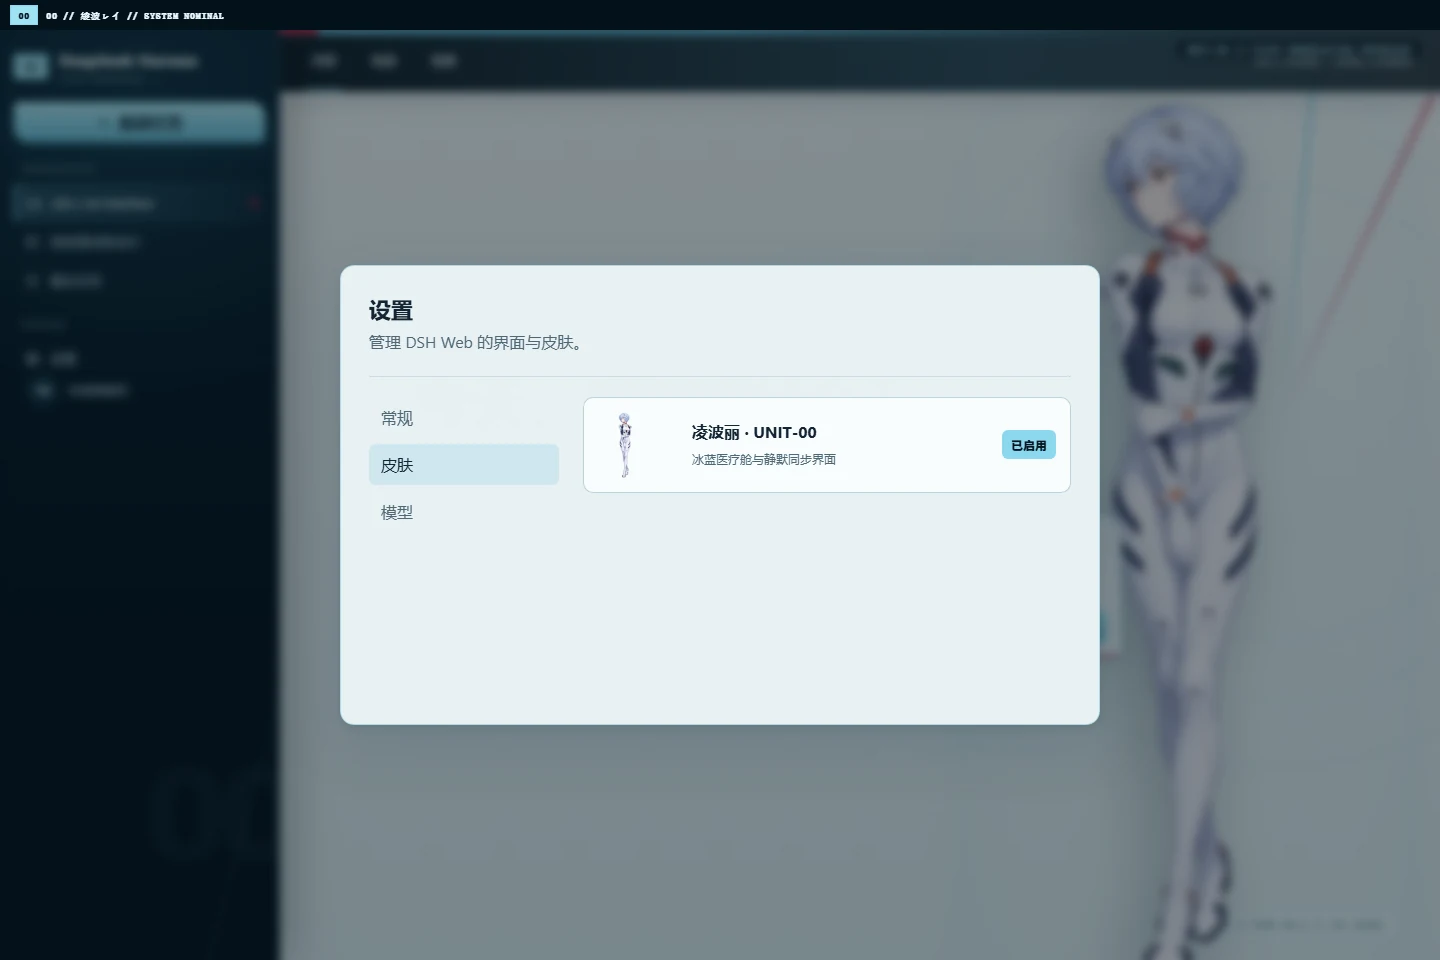
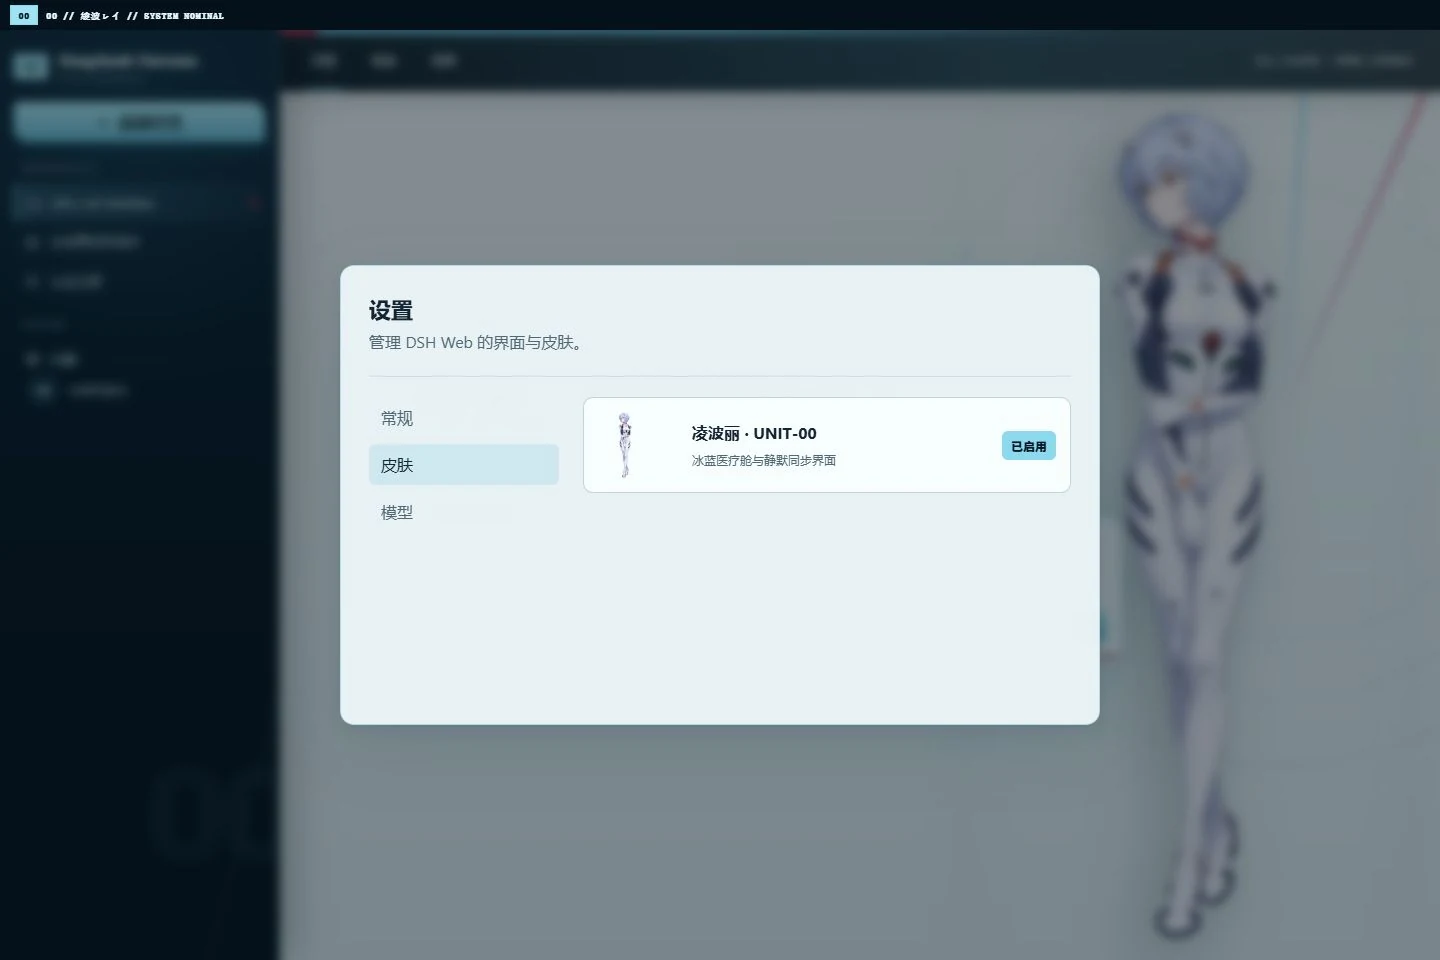
Fix Rei artwork framing

diff --git a/preview/preview.html b/preview/preview.html
@@ -113,7 +113,7 @@
             <div data-composer-card><span class="placeholder">描述一个清晰的任务...</span><div class="toolbar"><div class="tools"><button class="toolButton"><svg viewBox="0 0 24 24" fill="none" stroke="currentColor" stroke-width="2"><path d="M12 5v14M5 12h14"/></svg></button><span class="model">GPT-5.6-LUNA / MAX</span></div><button class="sendButton primary"><svg viewBox="0 0 24 24" fill="none" stroke="currentColor" stroke-width="2"><path d="M12 19V5m-6 6 6-6 6 6"/></svg></button></div></div>
           </div>
         </section>
-        <section class="activeScene" data-phase="active" data-chat-flow>
+        <section class="activeScene" data-phase="active">
           <div class="messageRow userRow"><div class="bubble">帮我检查这个插件的切换和清理逻辑。</div></div>
           <div class="messageRow assistantRow"><div class="assistantContent"><strong>检查完成。</strong><p>激活过程由皮肤管理器统一接管，注册阶段保持惰性。切换回默认皮肤时，主题节点、系统颜色、标题和 favicon 都会恢复。</p><div class="reasoning">正在核对观察器、动画帧与侧栏尺寸监听的回收顺序……</div><div data-terminal>$ node tests/apply.spec.ts<br><span style="color:#8bd8ef">✓ 6 tests passed</span><br>interface lifecycle: clean</div></div></div>
           <div class="activeComposer" data-composer-card><span class="placeholder">继续对话...</span><div class="toolbar"><span class="model">UNIT-00 / ACTIVE</span><button class="sendButton primary" disabled><svg viewBox="0 0 24 24" fill="none" stroke="currentColor" stroke-width="2"><path d="M12 19V5m-6 6 6-6 6 6"/></svg></button></div></div>
@@ -127,7 +127,9 @@
     import { SKIN_ART } from '../shared/art.js'
     const query = new URLSearchParams(location.search)
     if (query.get('theme') === 'dark') document.body.dataset.dsDarkTheme = ''
-    document.body.classList.add(`scene-${query.get('scene') || 'hero'}`)
+    const scene = query.get('scene') || 'hero'
+    document.body.classList.add(`scene-${scene}`)
+    if (scene === 'active') document.querySelector('.activeScene').dataset.chatFlow = ''
     document.querySelector('[data-preview-art]').src = SKIN_ART
     let cleanup
     activateSkin({ effect(factory) { cleanup = factory() } })

diff --git a/lib/client.js b/lib/client.js
@@ -131,10 +131,12 @@ body[data-dsh-rei-interface] [data-skin-chrome='rei-artwork-stage'] {
 
 body[data-dsh-rei-interface] [data-skin-artwork] {
   position: absolute;
-  right: clamp(-42px, 1.8vw, 38px);
-  bottom: -2.5vh;
+  right: clamp(18px, 2vw, 36px);
+  bottom: clamp(12px, 1.6vh, 20px);
   width: auto;
-  height: min(93vh, 1040px);
+  height: min(88vh, 920px);
+  max-width: calc(100vw - var(--rei-sidebar-width) - 24px);
+  object-fit: contain;
   opacity: 0.93;
   filter: drop-shadow(-18px 22px 32px rgba(6, 26, 39, 0.3));
   transform-origin: right bottom;
@@ -541,8 +543,9 @@ body[data-dsh-rei-interface] ::-webkit-scrollbar-thumb {
 
 @media (max-width: 1180px) {
   body[data-dsh-rei-interface] [data-skin-artwork] {
-    right: -135px;
-    height: 84vh;
+    right: clamp(12px, 2vw, 24px);
+    bottom: 12px;
+    height: 82vh;
     opacity: 0.56;
   }
 
@@ -574,8 +577,8 @@ body[data-dsh-rei-interface] ::-webkit-scrollbar-thumb {
 
 @media (max-width: 620px) {
   body[data-dsh-rei-interface] [data-skin-artwork] {
-    right: -210px;
-    height: 72vh;
+    right: 8px;
+    height: 68vh;
     opacity: 0.055;
   }
 

diff --git a/shared/theme-css.js b/shared/theme-css.js
@@ -112,10 +112,12 @@ body[data-dsh-rei-interface] [data-skin-chrome='rei-artwork-stage'] {
 
 body[data-dsh-rei-interface] [data-skin-artwork] {
   position: absolute;
-  right: clamp(-42px, 1.8vw, 38px);
-  bottom: -2.5vh;
+  right: clamp(18px, 2vw, 36px);
+  bottom: clamp(12px, 1.6vh, 20px);
   width: auto;
-  height: min(93vh, 1040px);
+  height: min(88vh, 920px);
+  max-width: calc(100vw - var(--rei-sidebar-width) - 24px);
+  object-fit: contain;
   opacity: 0.93;
   filter: drop-shadow(-18px 22px 32px rgba(6, 26, 39, 0.3));
   transform-origin: right bottom;
@@ -522,8 +524,9 @@ body[data-dsh-rei-interface] ::-webkit-scrollbar-thumb {
 
 @media (max-width: 1180px) {
   body[data-dsh-rei-interface] [data-skin-artwork] {
-    right: -135px;
-    height: 84vh;
+    right: clamp(12px, 2vw, 24px);
+    bottom: 12px;
+    height: 82vh;
     opacity: 0.56;
   }
 
@@ -555,8 +558,8 @@ body[data-dsh-rei-interface] ::-webkit-scrollbar-thumb {
 
 @media (max-width: 620px) {
   body[data-dsh-rei-interface] [data-skin-artwork] {
-    right: -210px;
-    height: 72vh;
+    right: 8px;
+    height: 68vh;
     opacity: 0.055;
   }
 

diff --git a/tests/apply.spec.ts b/tests/apply.spec.ts
@@ -136,4 +136,11 @@ describe('Rei Ayanami Interface interface skin', () => {
     expect(SKIN_CSS).toContain('@media (max-width: 620px)')
     expect(SKIN_CSS).toContain('@media (prefers-reduced-motion: reduce)')
   })
+
+  it('keeps the full-height hero artwork inside the viewport', () => {
+    expect(SKIN_CSS).toContain('right: clamp(18px, 2vw, 36px);')
+    expect(SKIN_CSS).toContain('bottom: clamp(12px, 1.6vh, 20px);')
+    expect(SKIN_CSS).toContain('height: min(88vh, 920px);')
+    expect(SKIN_CSS).toContain('max-width: calc(100vw - var(--rei-sidebar-width) - 24px);')
+  })
 })
